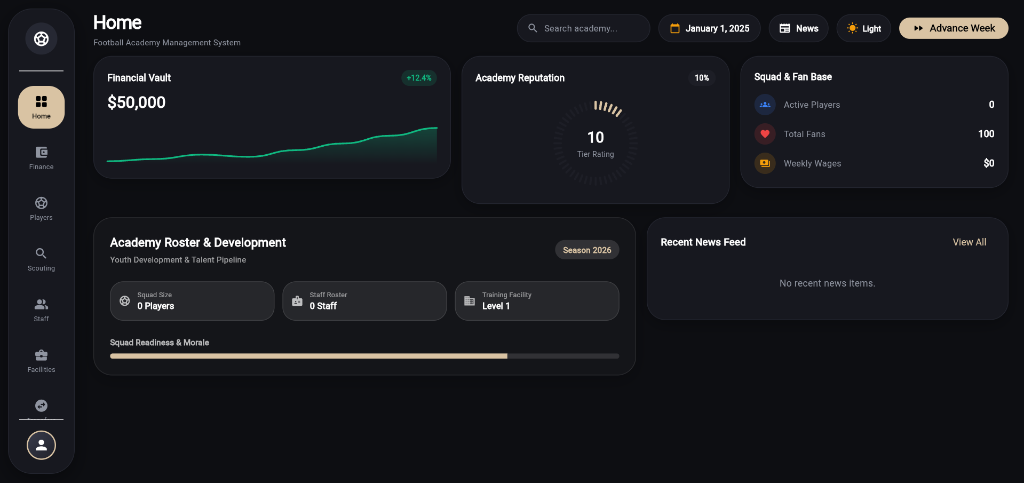
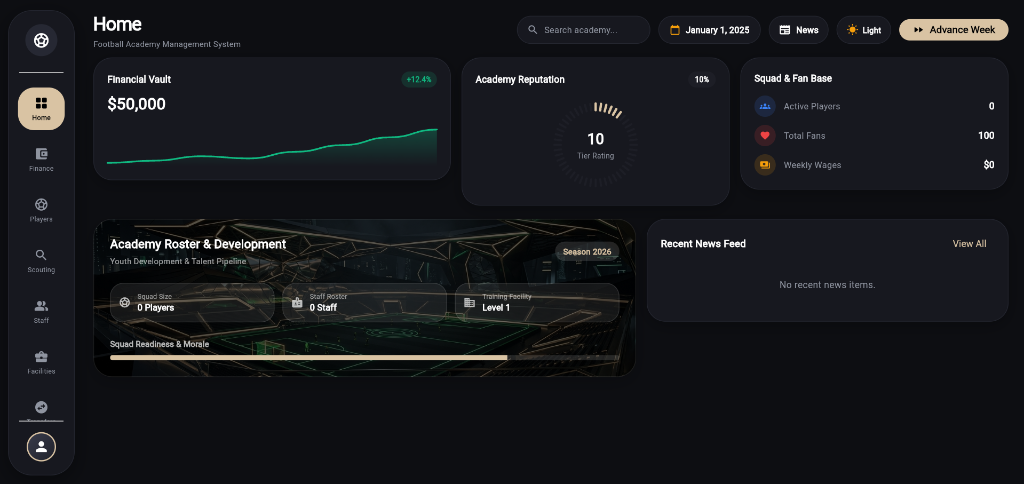
docs: update README.md and integrate futuristic AI visual assets suite

diff --git a/README.md b/README.md
@@ -1,164 +1,125 @@
-# Football Academy Game
+# ⚽ Football Academy Manager
 
-A comprehensive football academy management simulation game built with Flutter featuring a cutting-edge futuristic capsule dashboard UI.
+<p align="center">
+  <img src="assets/images/game_logo.png" alt="Football Academy Logo" width="120" />
+</p>
 
-![Futuristic Dashboard UI](assets/images/dashboard_preview.png)
+<p align="center">
+  <strong>A cutting-edge, turn-based Football Academy Management Simulation built with Flutter.</strong><br>
+  Featuring a high-tech <em>Futuristic Neumorphic Capsule</em> UI, AI-powered transfer market, dynamic player training, and multi-tier tournament progression.
+</p>
 
-## About The Game
-
-Take on the role of a football academy manager and guide your institution to glory! This game challenges you to build a successful football academy from the ground up. You'll be responsible for nurturing young talent, competing for trophies, and managing all the off-field aspects of running a football institution.
-
-## UI & Design Features
-
-- **Futuristic Neumorphic Capsule Aesthetics**: High-tech curved pill containers, luxury matte dark mode, and soft glass light mode.
-- **Floating Navigation Sidebar**: Quick capsule navigation between Home, Finance, Squad, Scouting, Staff, Facilities, Transfers, Tournaments, and Settings.
-- **Dynamic Header Bar**: Real-time Light/Dark theme quick-toggle, search bar, date pill indicator, news feed badge, and Advance Week action pill.
-- **Interactive Visual Data Widgets**:
-  - **Financial Vault Sparkline**: Cubic-spline trend line displaying budget health.
-  - **Academy Reputation Spoke Ring**: Radial visual indicator of academy reputation & tier rating.
-  - **Roster & Readiness Showcase**: Dark contrast showcase card featuring squad capacity, staff roster, facility levels, and squad morale progress bars.
-
-## Features
-
-*   **Academy Management:**
-    *   Control your academy's name, finances, players, and staff.
-    *   **Finances:** Manage your balance, weekly income, and expenses (wages).
-    *   **Facilities:** Upgrade training, scouting, and medical facilities. Build and upgrade a merchandise store. Facility levels provide bonuses and increase staff capacity.
-    *   **Scouting:** Send scouts to discover new talent. The quality of scouted players depends on scout skill and scouting facility level.
-    *   **Reputation:** Your academy and players have reputation scores that influence various game elements.
-    *   **Merchandise & Fans:** Manage merchandise sales and grow your fanbase, contributing to income.
-    *   **News Feed:** Stay informed about game events through a news feed (match results, transfers, player improvements, facility upgrades, etc.).
-
-*   **Player Development:**
-    *   Players possess a wide range of attributes:
-        *   Mental (Aggression, Composure, Vision, etc.)
-        *   Physical (Acceleration, Stamina, Strength, etc.)
-        *   Technical/Attacking (Crossing, Finishing, Passing, etc.)
-        *   Defending (Marking, Tackling, etc.)
-        *   Goalkeeping (Handling, Reflexes, etc.)
-    *   Each player has a current skill level, a potential skill cap, and affinities for different playing positions.
-    *   Train your players to improve their skills, influenced by your coaching staff and training facility levels.
-    *   Players have market values, weekly wages, and can be bought and sold via a transfer system.
-
-*   **Staff Management:**
-    *   Hire and fire various staff members:
-        *   Managers
-        *   Coaches
-        *   Scouts
-        *   Physios
-        *   Merchandise Managers
-    *   Staff members have skill levels that impact training effectiveness, scouting success, match performance, and merchandise income.
-    *   Staff capacity is linked to the level of your academy's facilities.
-
-*   **Competitions & The Game World:**
-    *   Participate in diverse tournaments with different formats (Knockout, League) and team sizes (3v3, 5v5, 7v7, 11v11).
-    *   Tournaments feature entry fees, prize money, and reputation requirements.
-    *   The game simulates matches with detailed event logs (goals, assists, etc.).
-    *   Compete in "Pro Youth Leagues" across different tiers, featuring AI-controlled professional clubs and other youth academies.
-    *   Experience promotion and relegation between league tiers based on performance.
-    *   The game world is populated with rival academies and AI-controlled professional clubs that manage their own teams, finances, and participate in tournaments.
-    *   AI clubs can make transfer offers for your players and players from other AI/rival teams.
-
-*   **Game Progression & Mechanics:**
-    *   The game progresses on a weekly basis.
-    *   Each week triggers various actions: financial updates, scouting reports, match simulations, player training, staff actions, and more.
-    *   Choose from different difficulty levels to tailor your management challenge.
-    *   Save and load your game progress.
-    *   Customize the application's theme (light/dark mode).
-
-## Getting Started & Gameplay Tutorial
-
-This project is a Flutter application. To run the game:
-
-1.  Ensure you have Flutter installed and configured on your system.
-2.  Clone this repository.
-3.  Navigate to the project directory in your terminal.
-4.  Run the command: `flutter run`
-
-This will build and launch the application on a connected device or emulator.
-
-### Your First Steps: A Manager's Journey
-
-Welcome to your new role as an Academy Manager! Here's a guide to get you started:
-
-1.  **Starting a New Game:**
-    *   When you first launch the game, you'll be prompted to start a new game.
-    *   You'll choose your **Academy Name** and select a **Difficulty Level**. Difficulty affects your starting balance, weekly income, initial reputation, and the strength of rival academies.
-
-2.  **The Dashboard - Your Command Center:**
-    *   After starting, you'll land on the **Dashboard**. This is your main hub for managing the academy.
-    *   Key sections accessible from the Dashboard (usually via a navigation menu or buttons):
-        *   **Finances:** View your balance, income, and expenses.
-        *   **Player Management:** See your current squad, their stats, and manage their training assignments.
-        *   **Staff Management:** Hire, fire, and view your current staff.
-        *   **Facilities:** Check the status of your Training, Scouting, Medical, and Merchandise facilities and upgrade them.
-        *   **Scouting:** View players found by your scouts and decide whether to sign or reject them.
-        *   **Tournaments:** See available tournaments, join them, and track your progress.
-        *   **News:** Keep up-to-date with weekly summaries, match results, transfer offers, and other important events.
-        *   **Settings:** Adjust game settings like difficulty (before starting a new game usually) and theme.
-
-3.  **The Weekly Cycle - Core Gameplay:**
-    *   The game progresses week by week. Advancing the week is typically done via a button on the Dashboard.
-    *   Each week, several things happen automatically:
-        *   **Financial Update:** You'll receive weekly income and pay staff/player wages.
-        *   **Scouting Reports:** If you have active scouts, they may find new players. These will appear in the Scouting screen.
-        *   **Match Simulation:** If you're in a tournament and have matches scheduled for the week, they will be simulated. Results will appear in the News and Tournament Details.
-        *   **Player Training:** Players assigned to coaches will train, potentially improving their skills.
-        *   **Staff Market Refresh:** New staff may become available for hire, and some existing ones might leave the market.
-        *   **Rival/AI Actions:** Other academies and AI clubs will also perform their weekly actions (training, transfers, etc.).
-        *   **News Updates:** A summary of the week's key events will be added to your News feed.
-
-4.  **Key Management Tasks:**
-
-    *   **Player Management:**
-        *   **Scouting:** Hire Scouts from the Staff Management screen. Better scouts and higher-level Scouting Facilities improve the quality and quantity of players found.
-        *   **Signing Players:** Go to the Scouting screen to review prospects. If you like a player and can afford their (initial) wage, sign them to your academy.
-        *   **Training:** Once a player is signed, go to Player Management or a dedicated Player Assignment screen. Assign them to a Coach. Players improve faster with better coaches and higher-level Training Facilities.
-        *   **Transfers:** Other clubs (especially AI Pro Clubs) may make offers for your talented players. These will appear in the News and a dedicated Transfer Offers screen. You can accept or reject these offers. Selling players can be a good source of income but means losing talent.
-
-    *   **Staff Management:**
-        *   **Hiring:** Go to Staff Management. You'll see a list of available staff. Hire staff based on your needs and budget.
-            *   **Manager:** (You usually start with one or this is you) Influences overall team performance.
-            *   **Coaches:** Train players. Their skill determines training effectiveness.
-            *   **Scouts:** Find new players. Their skill impacts scouting results.
-            *   **Physios:** Help players recover from fatigue faster. More important as you play more matches.
-            *   **Merchandise Manager:** Improves income from merchandise sales.
-        *   **Staff Limits:** The number of Coaches, Scouts, and Physios you can hire is limited by your facility levels.
-
-    *   **Facility Upgrades:**
-        *   Go to the Facilities screen. Upgrading facilities costs money but provides significant benefits:
-            *   **Training Facility:** Increases coach capacity and can improve training effectiveness.
-            *   **Scouting Facility:** Increases scout capacity and can improve scouting results.
-            *   **Medical Bay:** Increases physio capacity and improves player fatigue recovery.
-            *   **Merchandise Store:** (If applicable) Allows hiring of Store Managers and increases merchandise income potential.
-        *   Upgrades are crucial for long-term success.
-
-    *   **Tournament Participation:**
-        *   Go to the Tournaments screen. You'll see a list of available tournaments (knockout cups, leagues).
-        *   Each tournament has requirements: minimum number of players, academy reputation, and an entry fee.
-        *   If you meet the criteria, you can join.
-        *   Matches will be simulated during the weekly progression. Track your progress and aim for the prize money and reputation boost from winning!
-        *   **Pro Youth Leagues:** These are special, tiered leagues primarily for AI professional clubs. Your academy might be able to join lower tiers if your reputation is high enough. Success here can lead to promotion to higher tiers.
-
-5.  **Long-Term Goals & Strategy:**
-
-    *   **Build Your Reputation:** Winning matches, especially in tournaments, increases your academy's reputation. Higher reputation attracts better staff, more fans, and can unlock opportunities.
-    *   **Develop Star Players:** Scout for high-potential youngsters and train them into valuable assets. You can either build your team around them or sell them for a large profit.
-    *   **Achieve Financial Stability:** Manage your wages and expenses carefully. Winning tournaments and selling players are key income sources. Merchandise can also contribute.
-    *   **Win Trophies:** The ultimate mark of success!
-    *   **Climb the Ranks:** If you join the Pro Youth Leagues, aim for promotion to higher tiers to compete against stronger opponents.
-
-    **Tips for Success:**
-    *   **Balance your budget:** Don't overspend on wages or too many facility upgrades at once.
-    *   **Invest in scouting early:** Finding good young players is key.
-    *   **Prioritize training:** Develop your players to increase their value and on-field performance.
-    *   **Read the news:** Stay informed about offers, results, and opportunities.
-    *   **Save regularly!**
-
-Good luck, Manager! Your journey to footballing greatness starts now.
+<p align="center">
+  <img src="https://img.shields.io/badge/Flutter-v3.24+-02569B?style=for-the-badge&logo=flutter&logoColor=white" alt="Flutter Badge" />
+  <img src="https://img.shields.io/badge/Dart-v3.5+-0175C2?style=for-the-badge&logo=dart&logoColor=white" alt="Dart Badge" />
+  <img src="https://img.shields.io/badge/UI_Style-Futuristic_Capsule-D9C3A3?style=for-the-badge" alt="Capsule Badge" />
+  <img src="https://img.shields.io/badge/License-MIT-green?style=for-the-badge" alt="License Badge" />
+</p>
 
 ---
 
-For help getting started with Flutter development, view the
-[online documentation](https://docs.flutter.dev/), which offers tutorials,
-samples, guidance on mobile development, and a full API reference.
+![Futuristic Dashboard Preview](assets/images/dashboard_preview.png)
+
+---
+
+## 🌟 Overview & Aesthetic Vision
+
+**Football Academy Manager** combines deep strategic simulation mechanics with an extraordinary visual aesthetic. As the Director of a youth football academy, you are tasked with building an elite institution from the ground up—scouting prospects, expanding high-tech facilities, hiring coaching staff, competing in global youth tournaments, and navigating dynamic transfer markets.
+
+### 🎨 The Futuristic Neumorphic Capsule UI
+- **Luxury Dark Obsidian Palette**: Deep space black (`#0D0E12`) canvas paired with warm champagne gold (`#D9C3A3`), emerald green (`#10B981`), and neon status indicators.
+- **Capsule Navigation Sidebar**: Floating rounded pill navigation for seamless tab navigation.
+- **Interactive Visual Data Widgets**:
+  - **Financial Vault Sparkline**: Smooth cubic spline chart tracking budget trajectories.
+  - **Academy Reputation Spoke Ring**: Radial progress indicator reflecting tier standing.
+  - **Player Radar Charts**: Attribute distribution spider maps across 5 core tactical pillars.
+  - **Roster & Readiness Showcase**: Glassmorphic cards monitoring facility levels, morale, and squad capacity.
+
+---
+
+## 🖼 Custom AI Visual Asset Suite
+
+The application features a curated suite of AI-generated dark-mode assets designed to harmonize with the capsule aesthetic:
+
+| Asset | Preview | Location & Purpose |
+|---|---|---|
+| **Academy Emblem Logo** | `assets/images/game_logo.png` | **Start Screen & App Header**: Minimalist champagne-gold 3D metallic shield badge. |
+| **Start Screen Backdrop** | `assets/images/start_hero_banner.png` | **Start Screen Ambient Glow**: Panoramic futuristic stadium arena at night. |
+| **Stadium Abstract Hero** | `assets/images/stadium_abstract.png` | **Dashboard Showcase**: Architectural stadium lights & glowing emerald pitch. |
+| **Infrastructure Compound** | `assets/images/facility_stadium.png` | **Facilities Hub**: Geometric dark training facility complex. |
+| **Scouting Network Map** | `assets/images/scouting_prospect.png` | **Scouting Network**: Holographic tactical pitch map with target reticles. |
+| **Championship Trophy** | `assets/images/trophy_cup.png` | **Tournaments Hub**: Titanium and champagne-gold championship trophy. |
+| **Transfer Hub Network** | `assets/images/transfer_hub_banner.png` | **Transfer Hub**: Global player transfer market HUD visualization. |
+
+---
+
+## ⚙ Core Gameplay & Managerial Mechanics
+
+### 1. 📋 Weekly Simulation Loop
+The game progresses week-by-week. Advancing the week simulates:
+- **Match Engine**: Calculates outcome, goal scorers, assists, yellow/red cards, and fatigue.
+- **Player Development**: Attribute gains based on coach skill, facility level, and training focus.
+- **Financial Balance**: Payout of player/staff wages, ticket revenue, merchandise profits, and facility maintenance.
+- **Scouting Network**: Uncovers raw youth prospects with variable potential rating caps.
+- **Transfer Negotiations**: AI clubs evaluate your players and send real-time monetary transfer bids.
+
+### 2. 🧢 Staff & Facility Management
+- **Staff Roles**: Hire Managers, Coaches, Scouts, Physios, and Merchandise Managers.
+- **Facility Upgrades**:
+  - **Training Facility**: Boosts coaching capacity and player stat growth velocity.
+  - **Scouting HQ**: Increases scout capacity and prospect rating accuracy.
+  - **Medical Bay**: Reduces recovery time for fatigued and injured players.
+  - **Merchandise Store**: Unlocks retail revenue streams and grows fan base.
+
+### 3. ⚽ Competitions & Pro Youth Leagues
+- **Knockout & League Formats**: Compete across **3v3, 5v5, 7v7, and 11v11** game modes.
+- **Pro Youth League Pyramid**: Climb through Tier 3, Tier 2, and Tier 1 Pro Youth Leagues against AI professional clubs with promotion/relegation rules.
+
+---
+
+## 🛠 Architecture & Technical Stack
+
+```
+lib/
+ ├── models/                 # Data schemas (Player, Staff, Match, Tournament, AIClub)
+ ├── screens/                # UI Screens (Dashboard, Start, Facilities, Scouting, Transfers, etc.)
+ ├── services/               # Engine services (Finance, Scouting, Match Simulator)
+ ├── utils/                  # AppTheme tokens & Name Generators
+ ├── widgets/                # Reusable Capsule components (Radar Charts, Sparklines, Header Bars)
+ ├── game_state_manager.dart # Main State Provider (Notifier pattern & Web/Native persistence)
+ └── main.dart               # App entrypoint
+```
+
+- **Framework**: [Flutter](https://flutter.dev/) (Cross-platform support: Web, Windows, macOS, Android, iOS)
+- **State Management**: `Provider` architecture with reactive state consumers
+- **Design System**: Material 3 base with custom `AppTheme` tokens and canvas painters
+- **Persistence**: `shared_preferences` & `path_provider` for cross-platform local saves
+
+---
+
+## 🚀 Getting Started
+
+### Prerequisites
+- [Flutter SDK](https://docs.flutter.dev/get-started/install) (`^3.24.0` or later)
+- Dart SDK (`^3.5.0` or later)
+
+### Quick Run
+```bash
+# Clone the repository
+git clone https://github.com/x-Kevin-Paul-x/Football-academy-game.git
+
+# Navigate to project directory
+cd Football-academy-game
+
+# Fetch Flutter dependencies
+flutter pub get
+
+# Launch on connected device or browser
+flutter run
+```
+
+---
+
+## 📄 License
+
+This project is licensed under the MIT License — see the `LICENSE` file for details.
